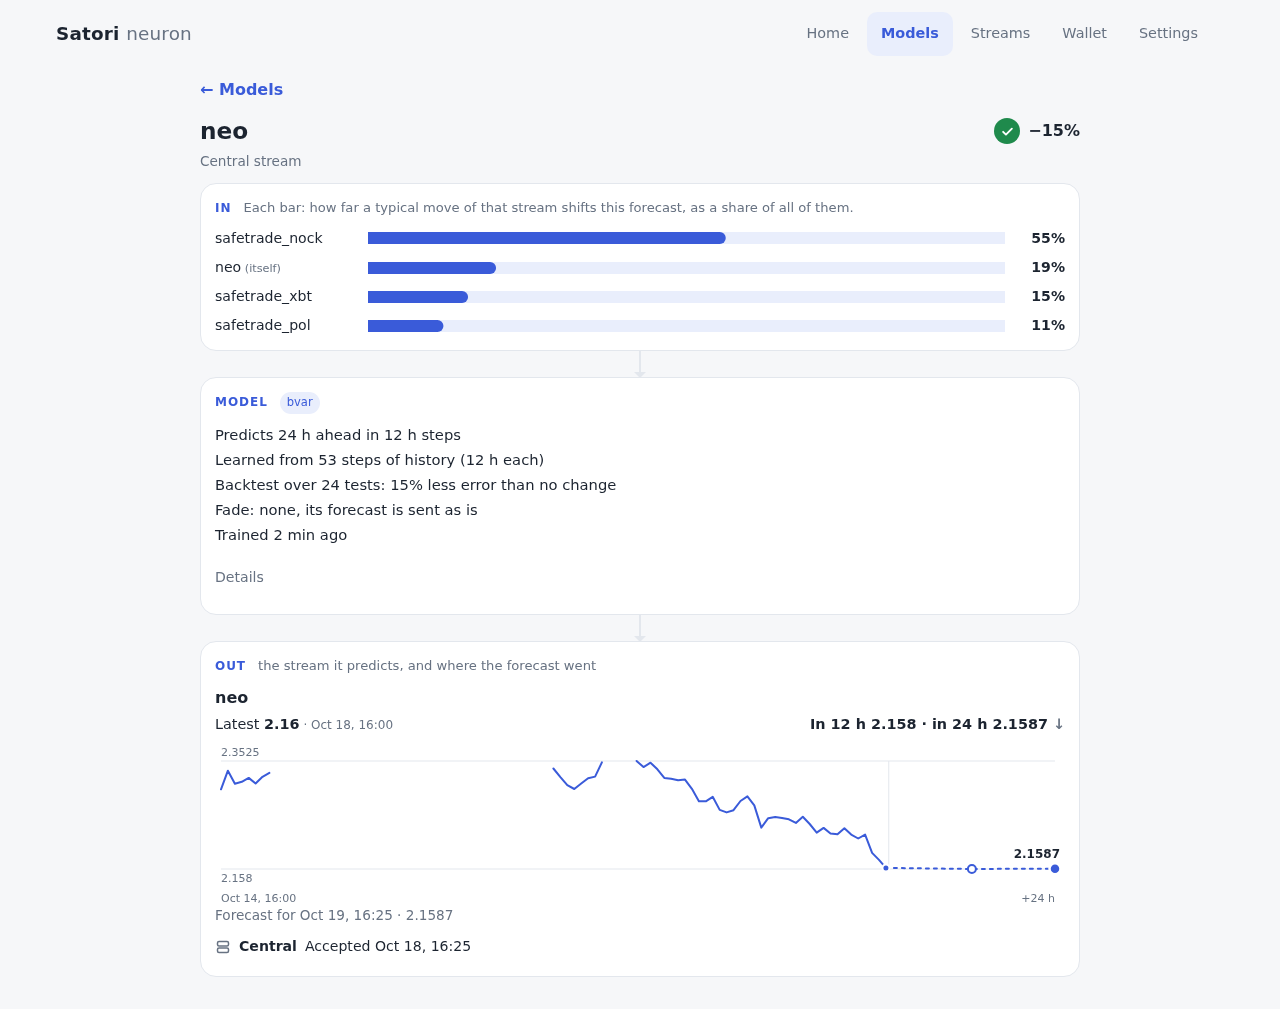
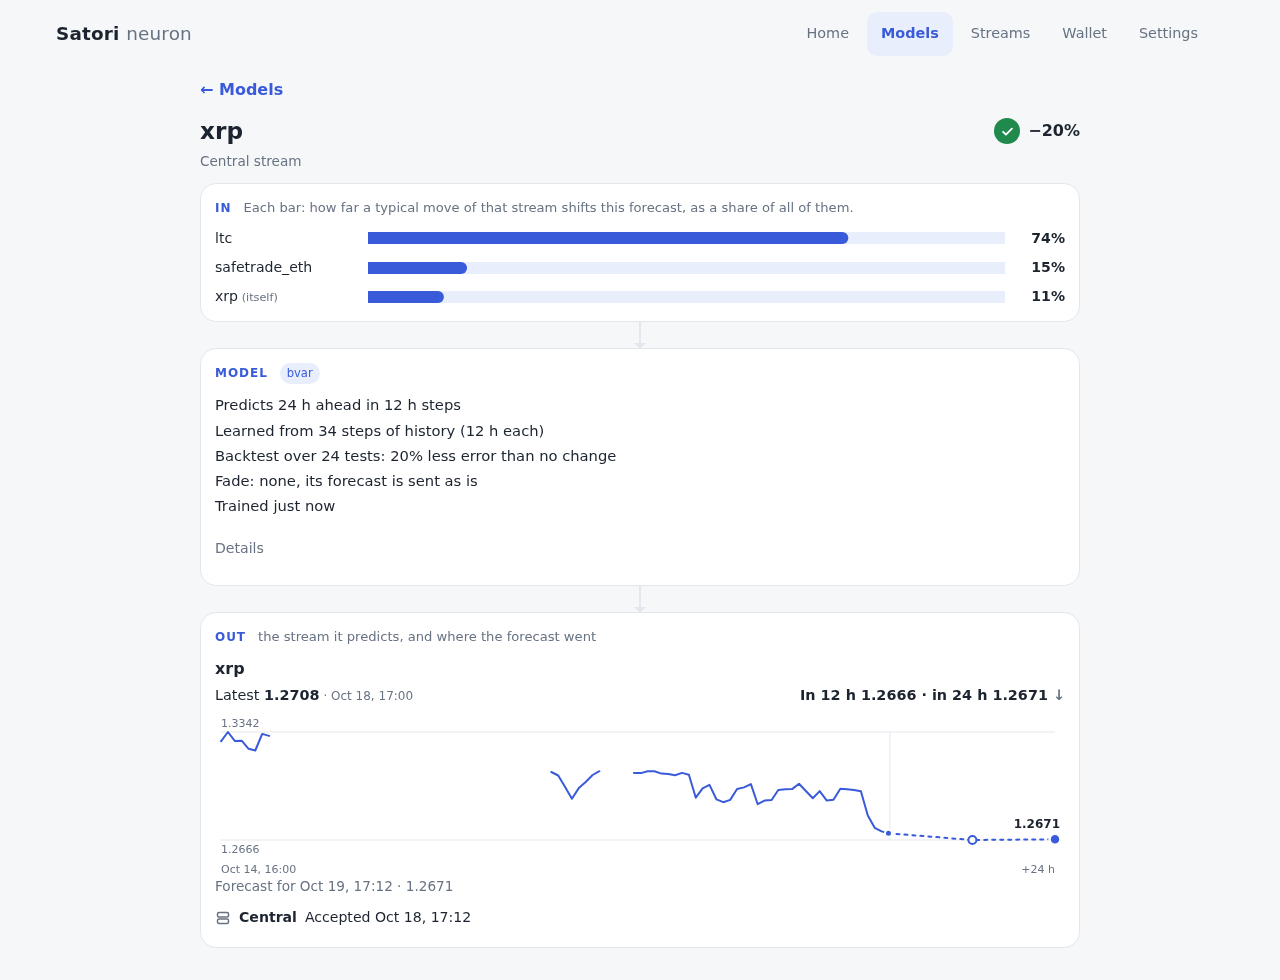
models: a row's input chips wrap on a computer too (a long one was cut); the live check and its timings after a restart

diff --git a/src/style.css b/src/style.css
@@ -377,7 +377,7 @@ a.mrow:hover { background: color-mix(in srgb, var(--accent-soft) 55%, transparen
 .mname b, .mname small { overflow: hidden; text-overflow: ellipsis; white-space: nowrap; }
 .mname b { font-weight: 600; }
 .mname small { color: var(--muted); font-size: 0.76rem; }
-.mins { display: flex; gap: 4px; min-width: 0; overflow: hidden; }
+.mins { display: flex; flex-wrap: wrap; gap: 4px; min-width: 0; } /* long names wrap, never cut */
 .ichip { font-size: 0.72rem; padding: 1px 7px; border-radius: 999px; background: var(--bg); border: 1px solid var(--line); color: var(--muted); white-space: nowrap; }
 .mval { display: flex; justify-content: flex-end; align-items: baseline; gap: 5px; white-space: nowrap; overflow: hidden; }
 .mval .to-arrow, .dir { color: var(--muted); }

diff --git a/docs/design/models.md b/docs/design/models.md
@@ -240,16 +240,19 @@ in four digits and a power of ten ("5.906e16", "1.234e−6"), never "0".
 
 ## Cost
 
-Measured 2026-10-18 on this shared 8-core box (load average 5–6 from other
-work), headless Chrome:
+Measured 2026-10-18 on this shared 8-core box, headless Chrome, each live
+drill-in 3 times (the median), every one of the 83 models:
 
-| What | Time |
-|---|---|
-| A drill-in, live on central2 (83 streams, 54,756 rows of central's history), each model 3 times, the median | **74 ms** (median of 83; max 101 ms), of which 44 ms reading the history and ~30 ms the refit |
-| The same from an agent, `satori.model(id)` | 81–182 ms |
-| `satori.models()` (83 models) | 2–12 ms |
-| A drill-in in the e2e (8 streams, 600 hourly rows each) | 22–112 ms, the read 19–75 ms |
-| The poll's engine, for comparison (83 targets, a champion and a challenger each) | 924–1,111 ms here (205 ms on a quiet box, [engine.md](engine.md#measured)) |
+| What | Busy box (load 5–6) | Quieter |
+|---|---|---|
+| A drill-in, live on central2 (83 streams, ~54,760 rows of central's history) | **74 ms** median, max 101 ms; the history read 44 ms | **25 ms** median, max 80 ms; the read 21 ms |
+| The same from an agent, `satori.model(id)`, timed in the page | 81–182 ms | |
+| `satori.models()` (83 models), timed in the page | 2–12 ms | |
+| A drill-in in the e2e (8 streams, 600 hourly rows each) | 22–112 ms, the read 19–75 ms | 15 ms, the read 13 ms |
+| The poll's engine, for comparison (83 targets, a champion and a challenger each) | 924–1,111 ms | 503–565 ms (205 ms on a quiet box, [engine.md](engine.md#measured)) |
+
+The refit itself is 4–30 ms; the rest is the one read of 2–4 streams'
+history in DuckDB's worker.
 
 Two changes made it cheap: the drill-in reads its 2–4 streams in one query
 (one query per stream: ~100 ms of a ~110 ms drill-in in the e2e), and the
@@ -287,21 +290,24 @@ agent API reads the tab's state instead of every stream's row again
 
 ## Live
 
-2026-10-18, the dev server on :5180 restarted, against central2, a fresh
-Chrome profile, no stubs (prod blocked, none asked): setup → the first poll
-at once: 83 streams, central's history for all 83 (54,756 rows), 83 of 83
-accepted. The tab: *Resting*, "Trained just now · next run in 11 h", "83
-models · 81 bvar · 2 naive", "Beats no change on 24 of 83 · ties 40 · worse
-19", "Median model: the same error as no change" (another fresh profile drew
-other specs: 17 better, 49 ties, 17 worse, the median 1% less error). Nothing
-scrolls sideways at 390 px.
+2026-10-18 17:12, the dev server on :5180 restarted with the final code,
+against central2, a fresh Chrome profile, no stubs (prod blocked, none
+asked): setup → the first poll at once: 83 streams, central's history for
+all 83 (54,761 rows), 83 of 83 accepted. The tab: *Resting*, "Trained just
+now · next run in 11 h", "83 models · 81 bvar · 2 naive", "Beats no change
+on 18 of 83 · ties 43 · worse 22", "Median model: the same error as no
+change". Each fresh profile draws its own specs (the identity seeds them):
+three others that day read 24 / 40 / 19, 17 / 49 / 17 and 19 / 32 / 32, the
+median model between 1% less error and the same. Nothing scrolls sideways at
+390 px.
 
 ![The Models list live on central2](../screenshots/models-live-list-desktop-light.png)
 
 <img src="../screenshots/models-live-list-phone-light.png" alt="The list on a phone, live" width="240"> <img src="../screenshots/models-live-list-phone-dark.png" alt="The list on a phone, live, dark" width="240">
 
-A drill-in live (neo: 55% safetrade_nock, 19% itself; 15% less error than no
-change over 24 tests; the line breaks where central2's history has gaps):
+A drill-in live (xrp: 74% ltc, 15% safetrade_eth, 11% itself; 20% less
+error than no change over 24 tests; the line breaks where central2's history
+has gaps):
 
 ![A bvar drill-in live](../screenshots/models-live-drill-desktop-light.png)
 
